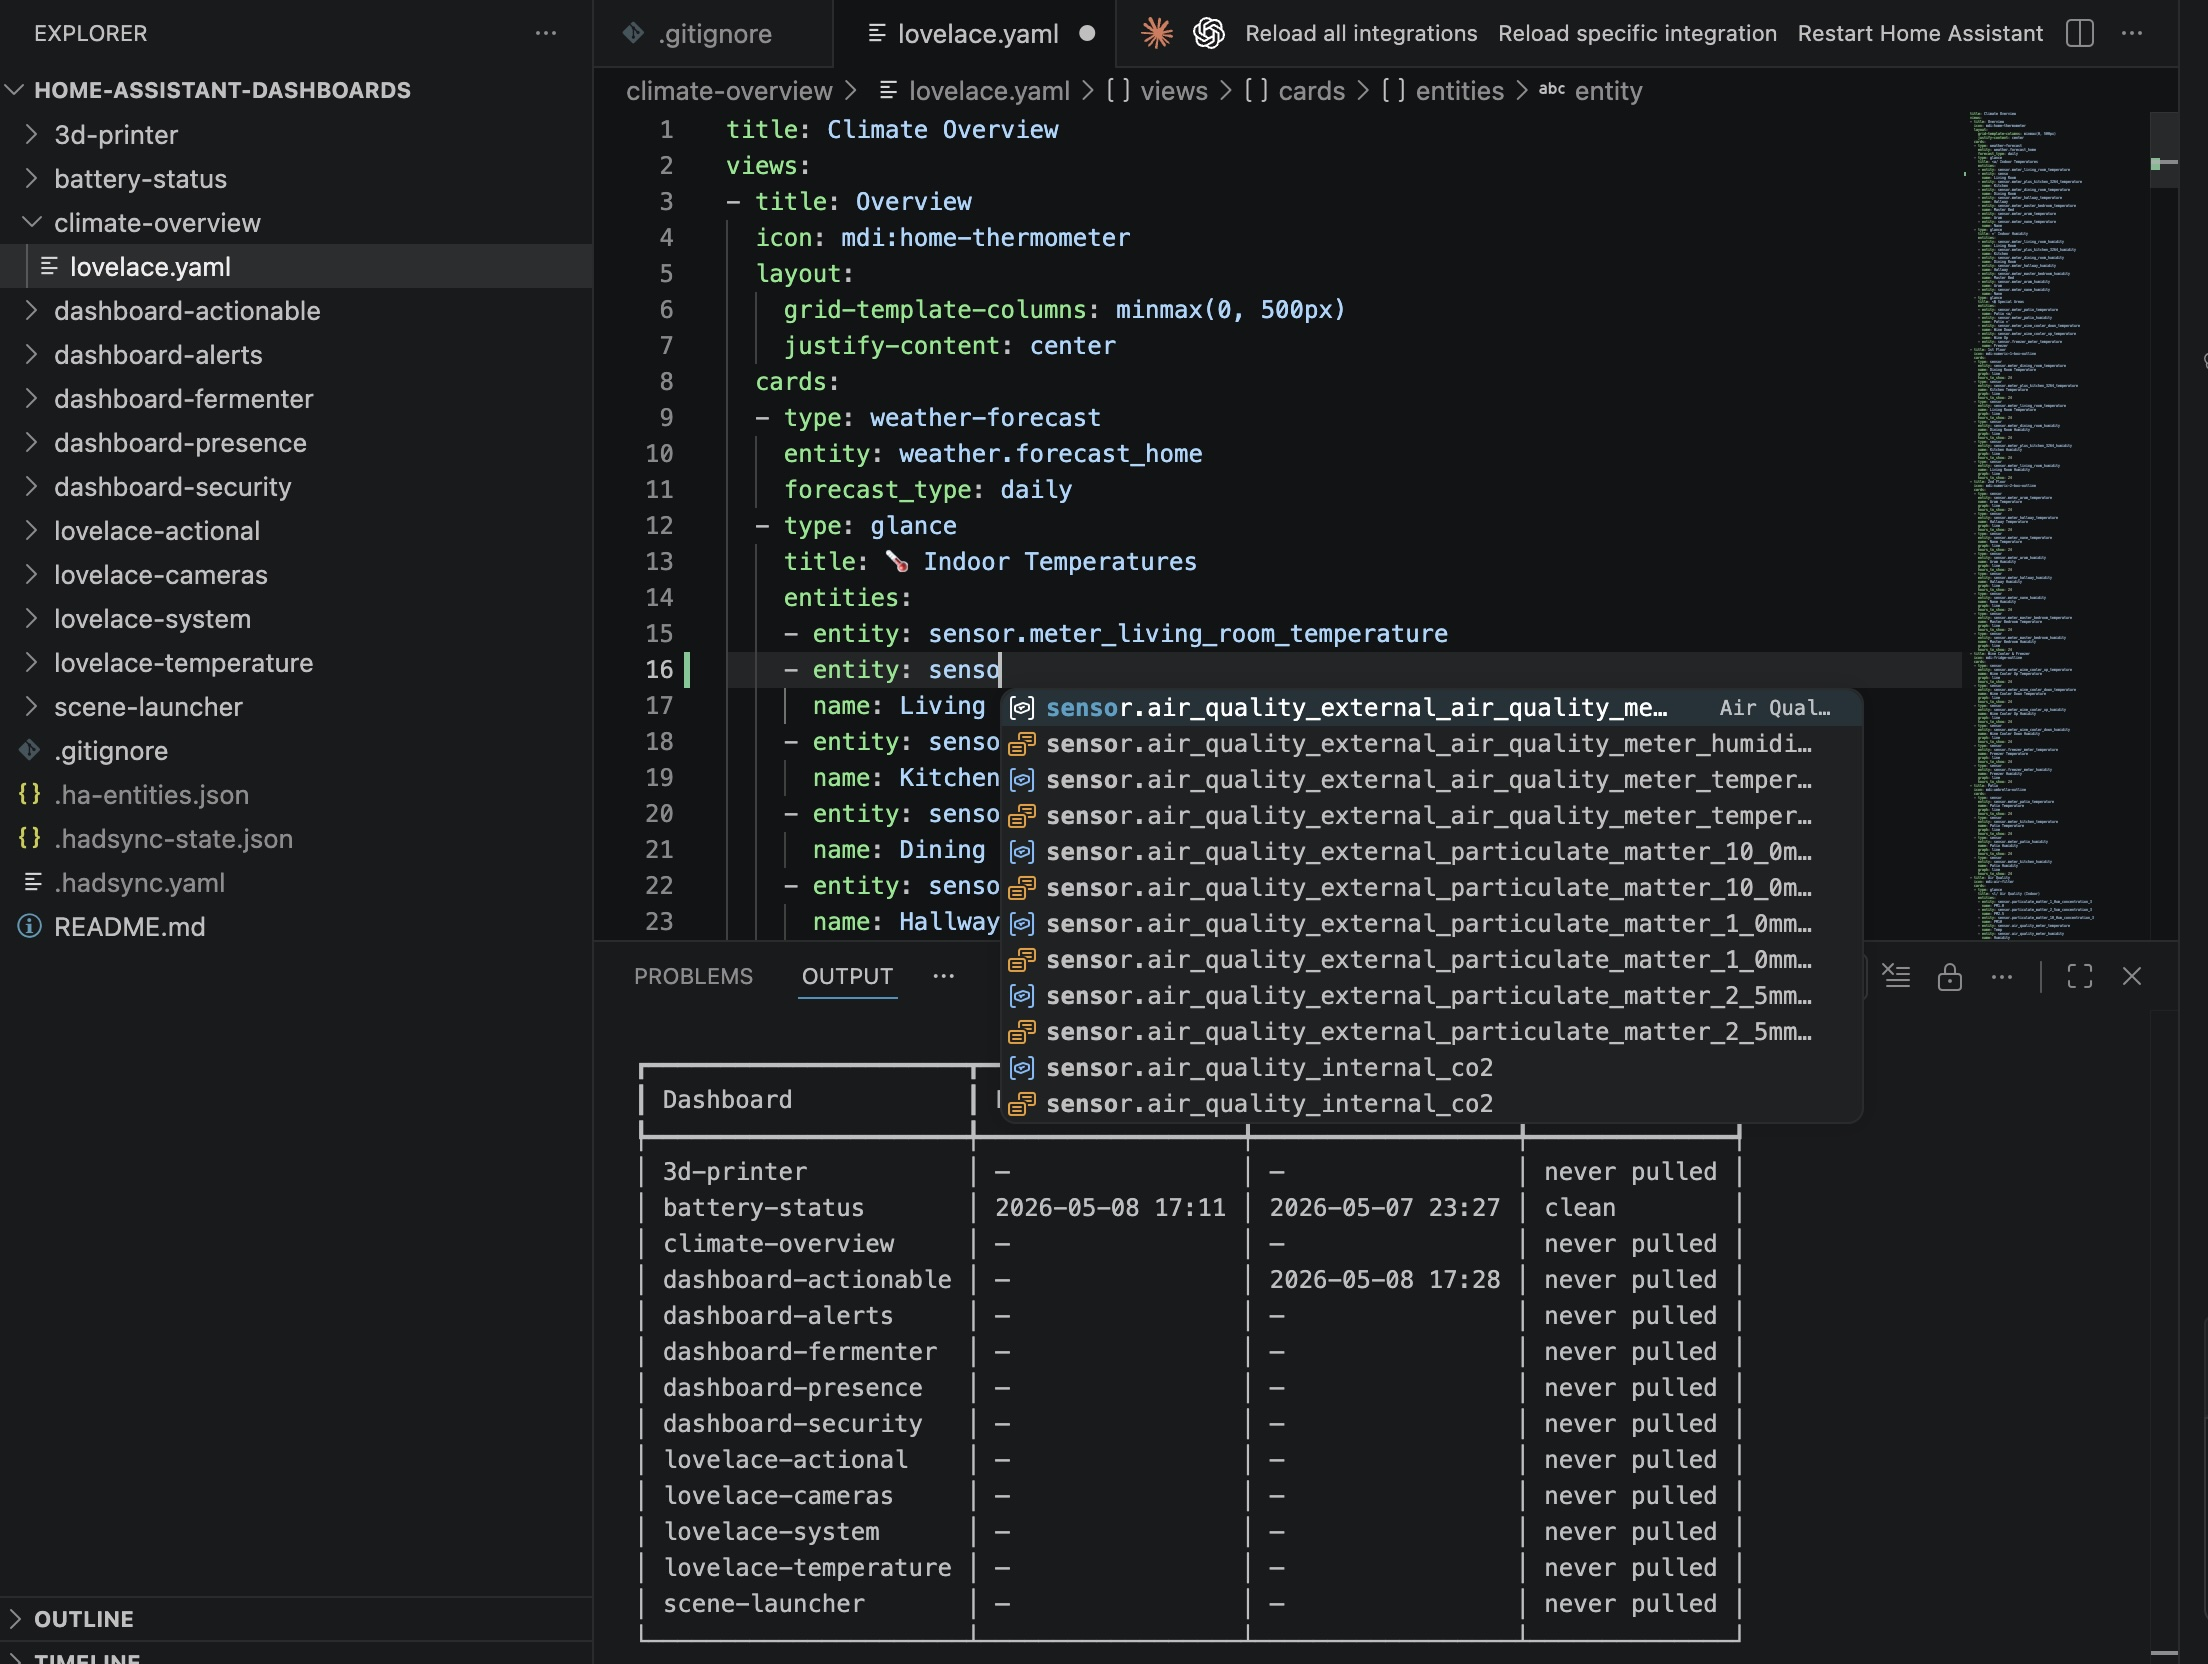
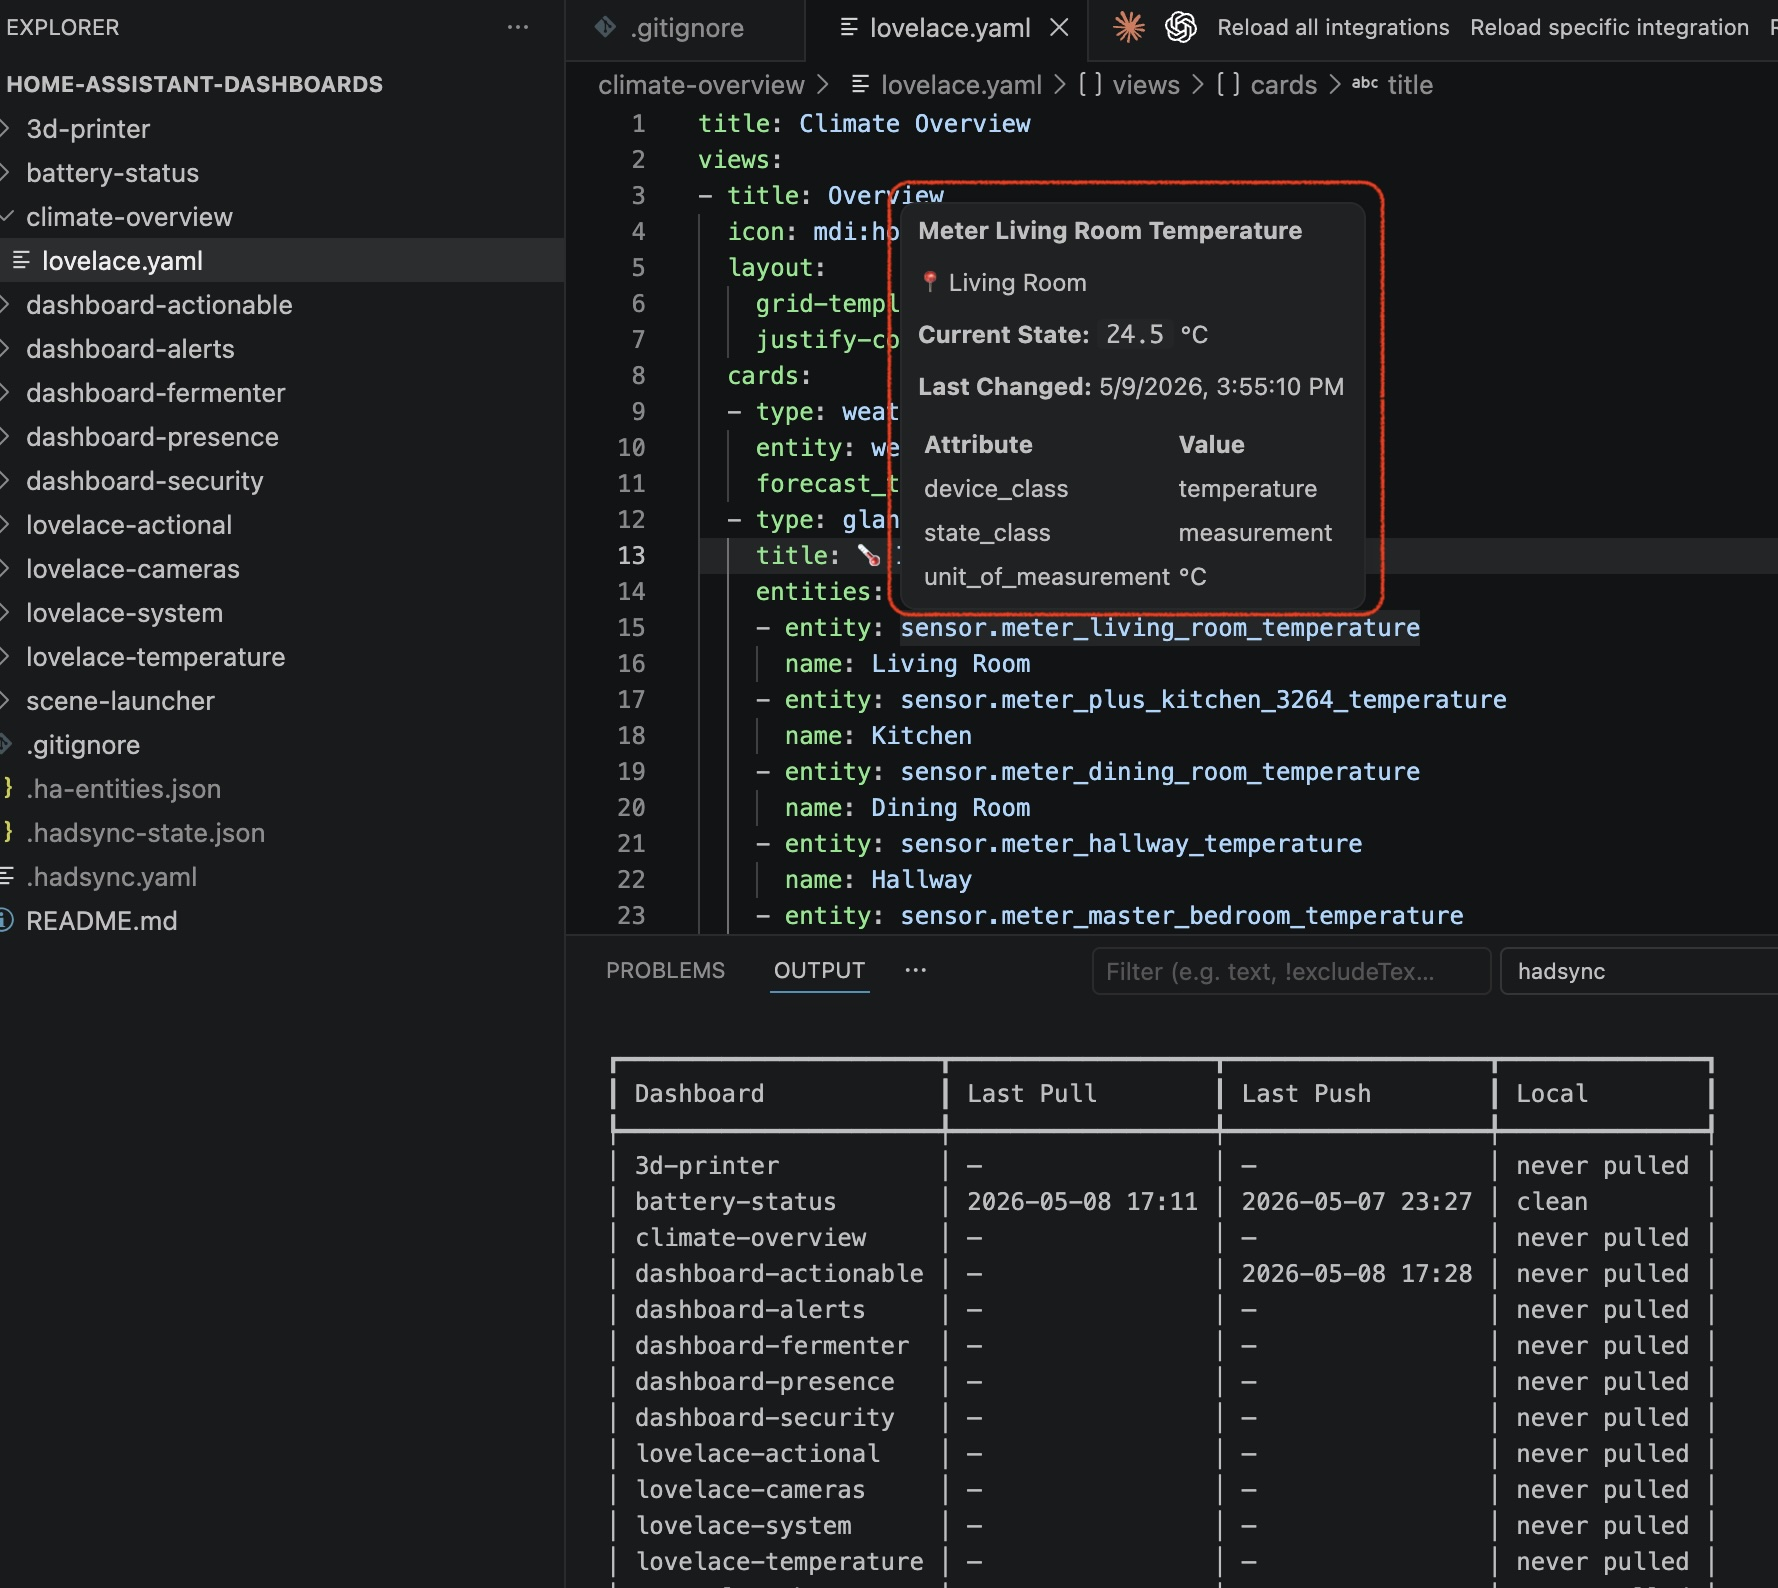
docs: replace entity screenshot with correct image showing live HA state hover
Shows HA Config Helper hover tooltip over an entity ID in lovelace.yaml:
live current state (24.5°C), last-changed timestamp, and entity attributes
pulled directly from the running HA instance. Updated caption and surrounding
text to accurately describe the live state integration.

diff --git a/README.md b/README.md
@@ -245,9 +245,9 @@ code --install-extension hadsync-0.1.0.vsix
 - **Entity autocomplete** — typing `entity: ` triggers completions from `.ha-entities.json` with friendly name and domain
 - **Right-click context menu** — validate / push / diff available directly in any `lovelace.yaml` editor
 
-Combined with the [Home Assistant Config Helper](https://marketplace.visualstudio.com/items?itemName=keesschollaart.vscode-home-assistant) extension, the editor gains live entity state awareness — completions show friendly names from your real HA instance, and validation catches unknown or removed entity IDs before they ever reach your dashboard.
+Pair hadsync with the [Home Assistant Config Helper](https://marketplace.visualstudio.com/items?itemName=keesschollaart.vscode-home-assistant) extension for a complete live editing experience: hover over any entity ID to see its **current state, last-changed timestamp, and attributes** pulled directly from your running HA instance — while hadsync validation ensures every referenced entity actually exists.
 
-![Entity ID completions with friendly names, powered by hadsync entity cache and HA Config Helper](docs/vscode-entities-screenshot.jpg)
+![Hovering over an entity ID reveals its live state from HA — current value, last changed time, and attributes — via HA Config Helper](docs/vscode-entities-screenshot.jpg)
 
 ### Settings
 